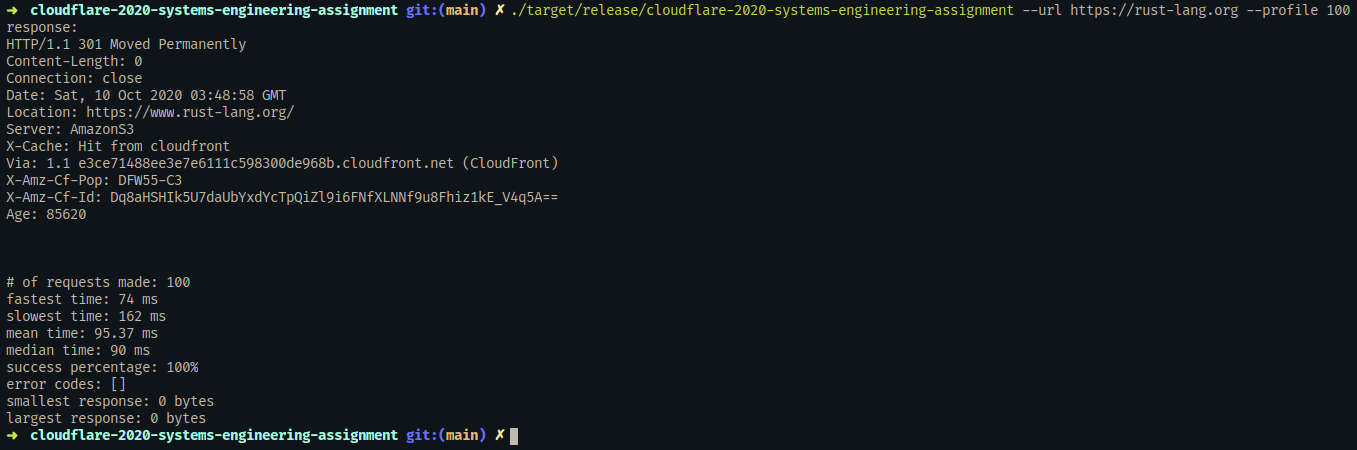
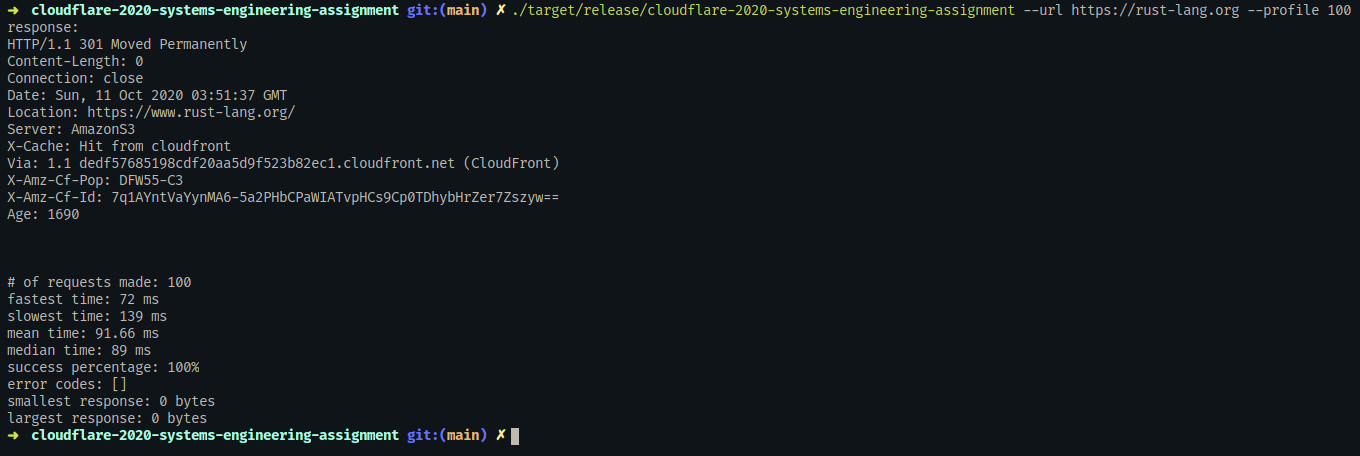
update body parsing method, update benchmarks

Changed region(s): [[0.0, 0.0, 0.4333, 0.4978], [0.0, 0.5911, 0.4024, 0.9956], [0.3714, 0.0, 1.0, 0.0622]]

diff --git a/src/benchmarks.rs b/src/benchmarks.rs
@@ -44,7 +44,7 @@ impl Benchmarks {
         }
 
         // Get the response body. If there was not one, return
-        let body = resp.split("\r\n\r\n").last()?;
+        let body = resp.splitn(2, "\r\n\r\n").last()?;
         
         // Update the largest response body if necessary
         self.largest = self.largest.max(body.len());

diff --git a/README.md b/README.md
@@ -25,40 +25,63 @@ Note: omitting returned webpage content due to their length.
 Output for https://github.com/nnazo
 ```
 # of requests made: 100
-fastest time: 192 ms
-slowest time: 1026 ms
-mean time: 278.46 ms
-median time: 230 ms
+fastest time: 195 ms
+slowest time: 1023 ms
+mean time: 276.83 ms
+median time: 213 ms
 success percentage: 49%
 error codes: [429, 429, 429, 429, 429, 429, 429, 429, 429, 429, 429, 429, 429, 429, 429, 429, 429, 429, 429, 429, 429, 429, 429, 429, 429, 429, 429, 429, 429, 429, 429, 429, 429, 429, 429, 429, 429, 429, 429, 429, 429, 429, 429, 429, 429, 429, 429, 429, 429, 429, 429]
-smallest response: 0 bytes
-largest response: 1474 bytes
+smallest response: 1474 bytes
+largest response: 172206 bytes
 ```
 
 Output for https://duckduckgo.com
 ```
 # of requests made: 100
-fastest time: 166 ms
-slowest time: 212 ms
-mean time: 188.17 ms
-median time: 187 ms
+fastest time: 168 ms
+slowest time: 216 ms
+mean time: 189.74 ms
+median time: 189 ms
 success percentage: 100%
 error codes: []
 smallest response: 5763 bytes
 largest response: 5763 bytes
 ```
 
-Output for https://google.com
+Full output for https://google.com
 ```
+➜  cloudflare-2020-systems-engineering-assignment git:(main) ✗ ./target/release/cloudflare-2020-systems-engineering-assignment --url https://google.com --profile 100
+response:
+HTTP/1.1 301 Moved Permanently
+Location: https://www.google.com/
+Content-Type: text/html; charset=UTF-8
+Date: Sun, 11 Oct 2020 04:22:50 GMT
+Expires: Tue, 10 Nov 2020 04:22:50 GMT
+Cache-Control: public, max-age=2592000
+Server: gws
+Content-Length: 220
+X-XSS-Protection: 0
+X-Frame-Options: SAMEORIGIN
+Alt-Svc: h3-Q050=":443"; ma=2592000,h3-29=":443"; ma=2592000,h3-27=":443"; ma=2592000,h3-T051=":443"; ma=2592000,h3-T050=":443"; ma=2592000,h3-Q046=":443"; ma=2592000,h3-Q043=":443"; ma=2592000,quic=":443"; ma=2592000; v="46,43"
+Connection: close
+
+<HTML><HEAD><meta http-equiv="content-type" content="text/html;charset=utf-8">
+<TITLE>301 Moved</TITLE></HEAD><BODY>
+<H1>301 Moved</H1>
+The document has moved
+<A HREF="https://www.google.com/">here</A>.
+</BODY></HTML>
+
+
 # of requests made: 100
-fastest time: 82 ms
-slowest time: 177 ms
-mean time: 96.93 ms
-median time: 93 ms
+fastest time: 90 ms
+slowest time: 185 ms
+mean time: 99.9 ms
+median time: 99 ms
 success percentage: 100%
 error codes: []
 smallest response: 220 bytes
 largest response: 220 bytes
 ```
 
-Out of the requests that returned a semi-large HTML webpage, the worker site seemed the fastest for the given response size. The github request took much longer and returned a response half the size, though requests did get rate-limited in that benchmark. Google had a similar benchmark time but the response was much smaler than the worker site.
+Out of the requests that returned a semi-large HTML webpage, the worker site seemed the fastest for the given response size. The github and request took much longer and returned a response half the size, though requests did get rate-limited in that benchmark. Google had a similar benchmark time but the response was much smaler than the worker site.
